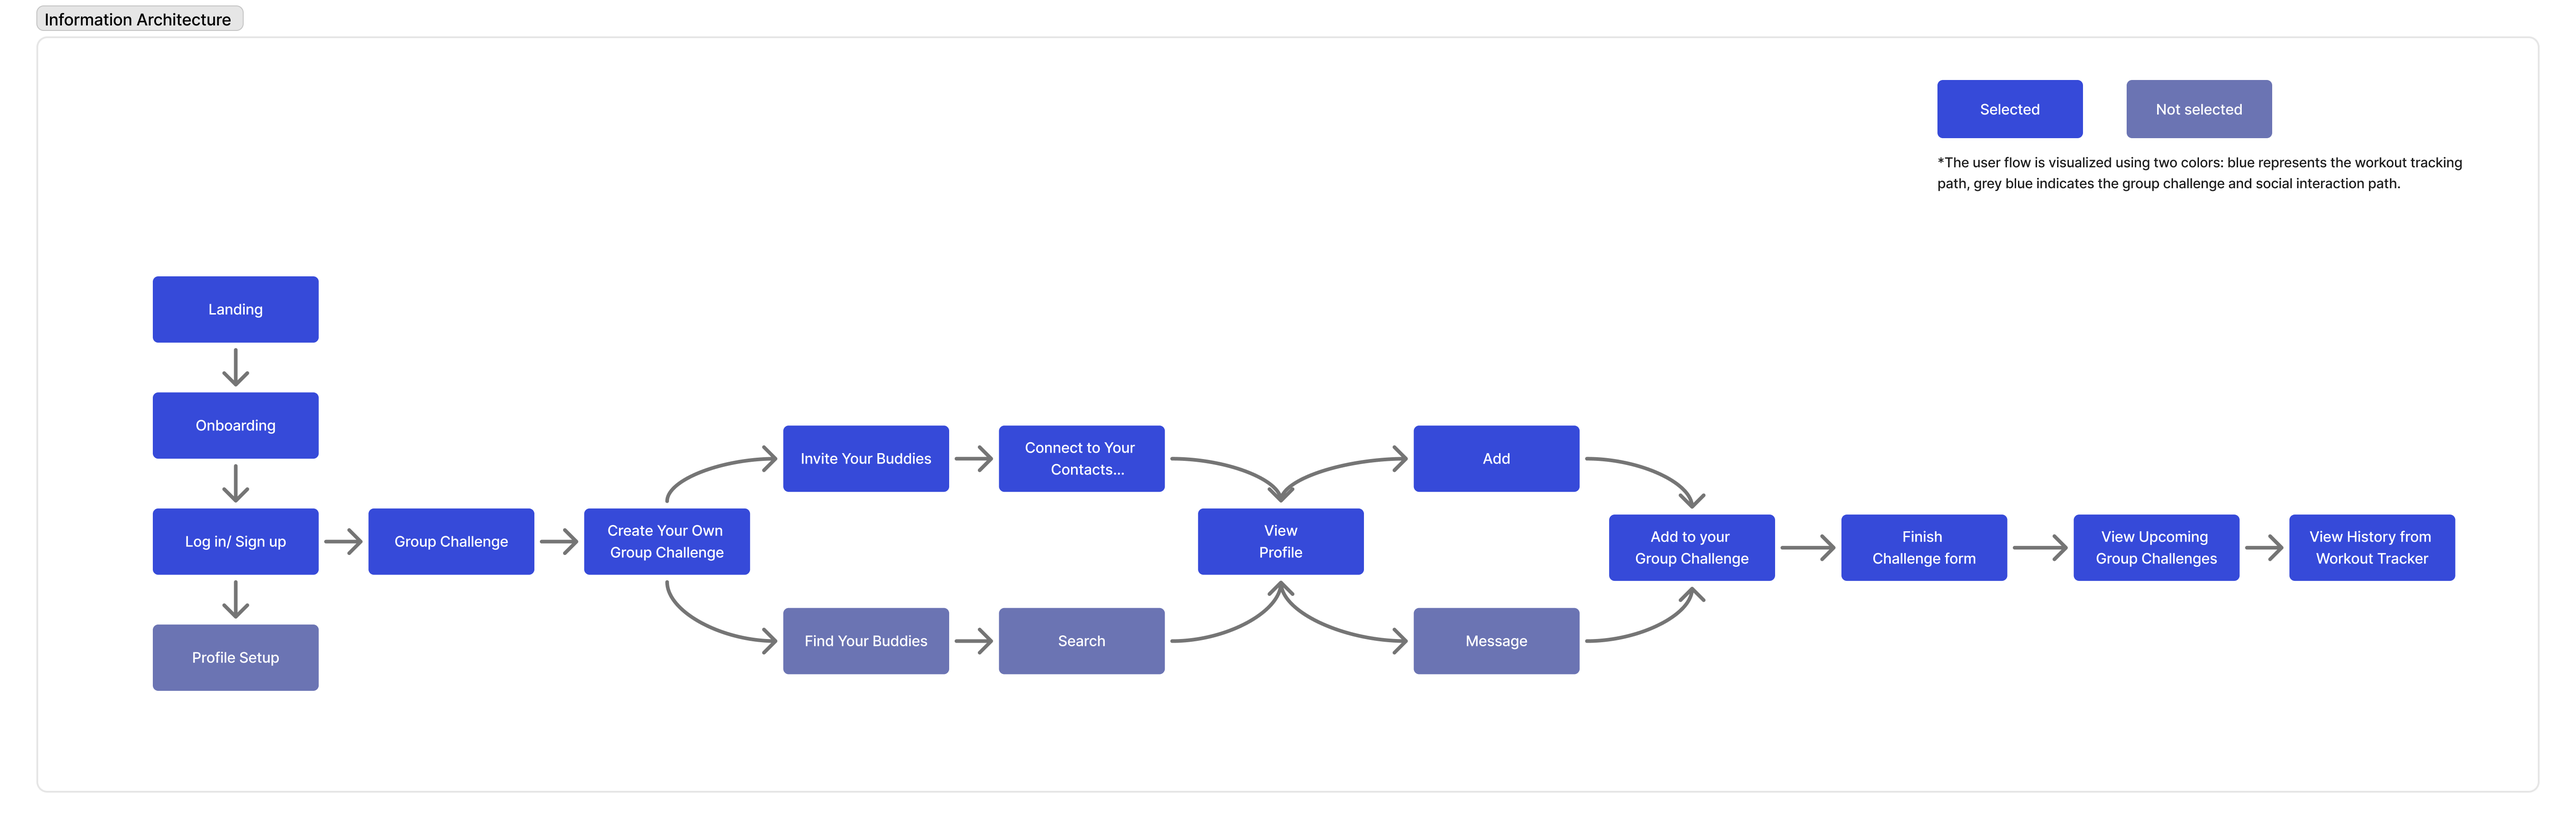
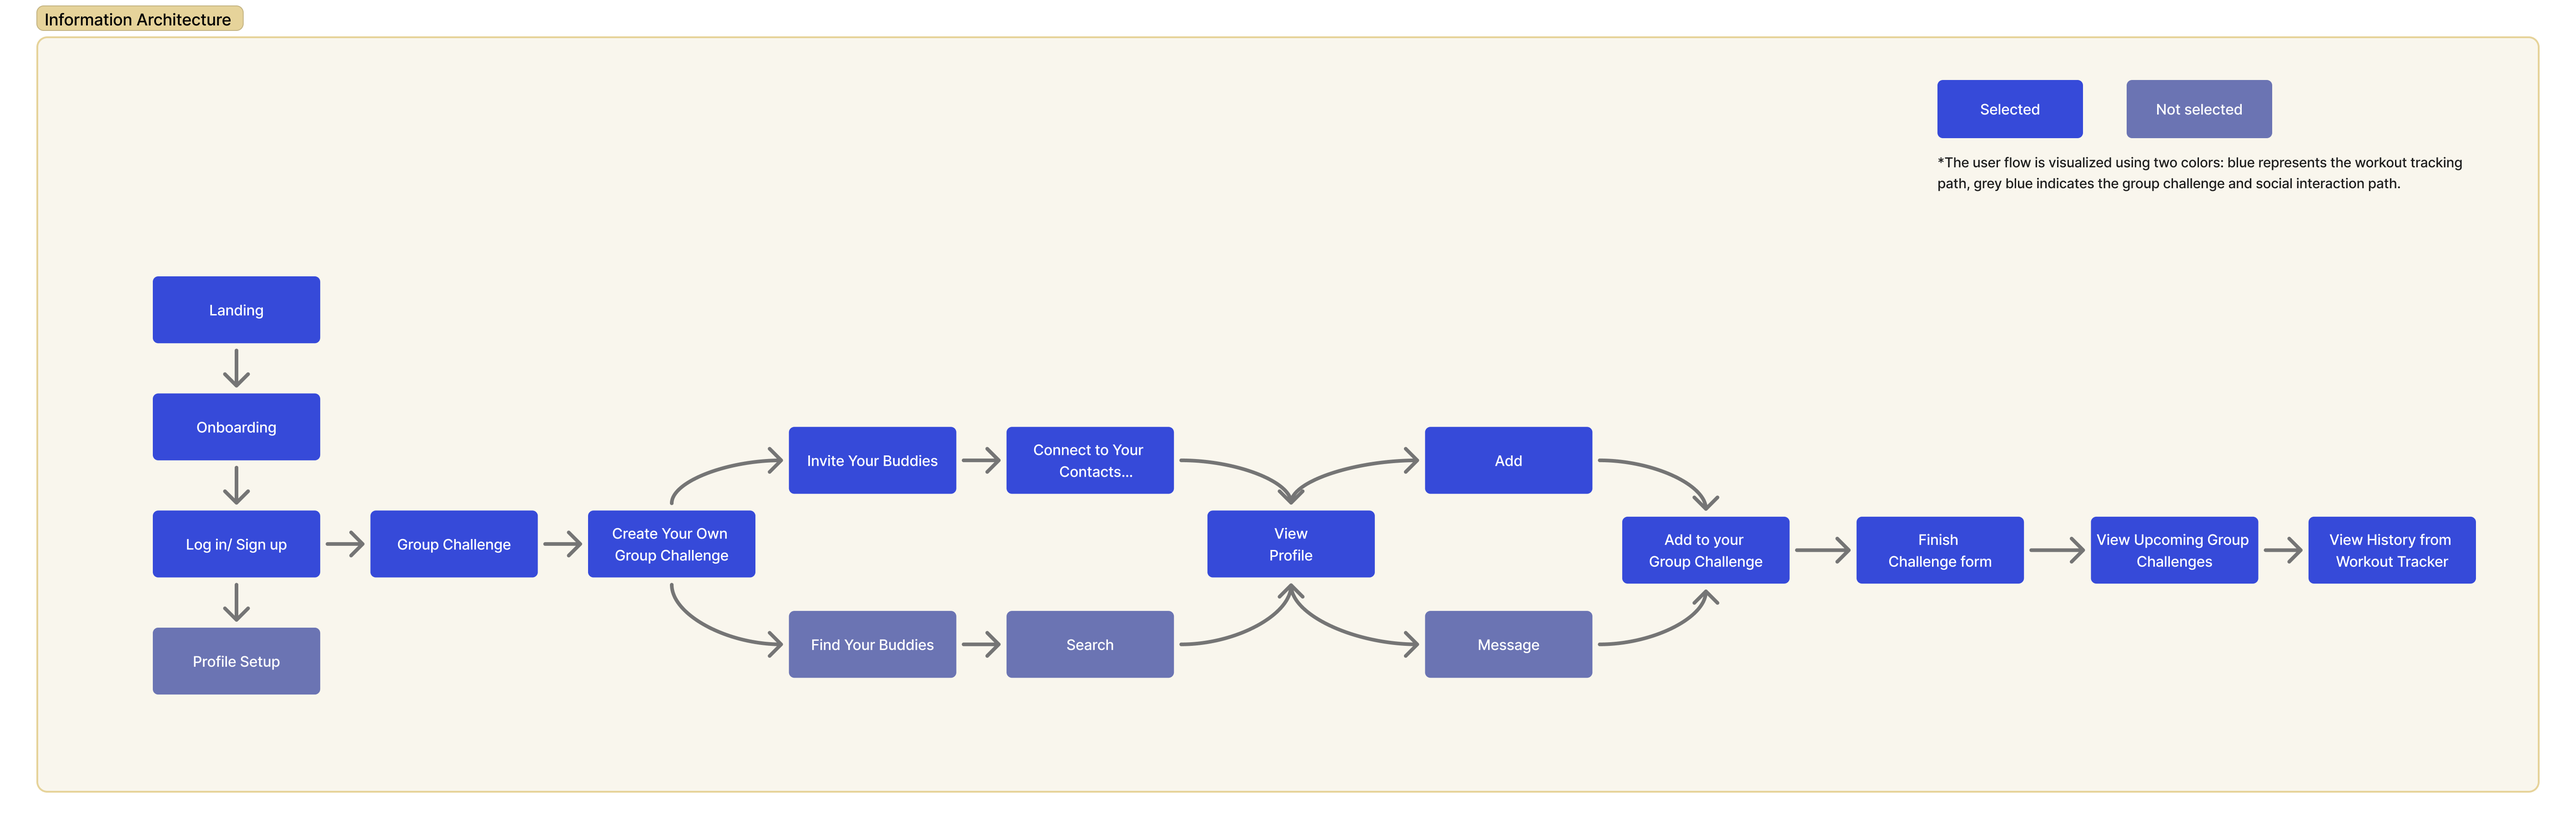
Zynergy IA image update

diff --git a/src/pages/Home.css b/src/pages/Home.css
@@ -226,6 +226,7 @@ body {
     font-size: 1.25rem;
     margin: 1rem auto;
     text-align: center;
+    line-height: 1.6;
   }
 
   .col,
@@ -250,12 +251,22 @@ body {
 
 /* Small devices (tablets/phones, 768px and down) */
 @media (max-width: 768px) {
+  .hero-section {
+    display: flex;
+    flex-direction: column;
+    align-items: center;
+    gap: 2rem;
+    padding: 3rem 1rem;
+  }
+
   .hero-section h1 {
     font-size: 2.75rem;
+    margin-left: 0;
   }
 
   .hero-section p {
     font-size: 1.1rem;
+    line-height: 1.6;
   }
 
   .selected-works {
@@ -263,8 +274,11 @@ body {
   }
 
   .view-all-btn {
-    font-size: 0.95rem;
-    padding: 0.5rem 1rem;
+    display: block;
+    width: 100%;
+    max-width: 300px;
+    margin: 2rem auto;
+    text-align: center;
   }
 
   .col .blur-2:before,
@@ -286,9 +300,14 @@ body {
   }
 
   .view-all-btn {
-    width: 100%;
     margin: 1rem auto;
     font-size: 0.9rem;
+  }
+
+  .col .blur-2,
+  .col-text-right .blur-2 {
+    animation: none;
+    transform: scale(0.9);
   }
 
   .col .blur-2:before,
